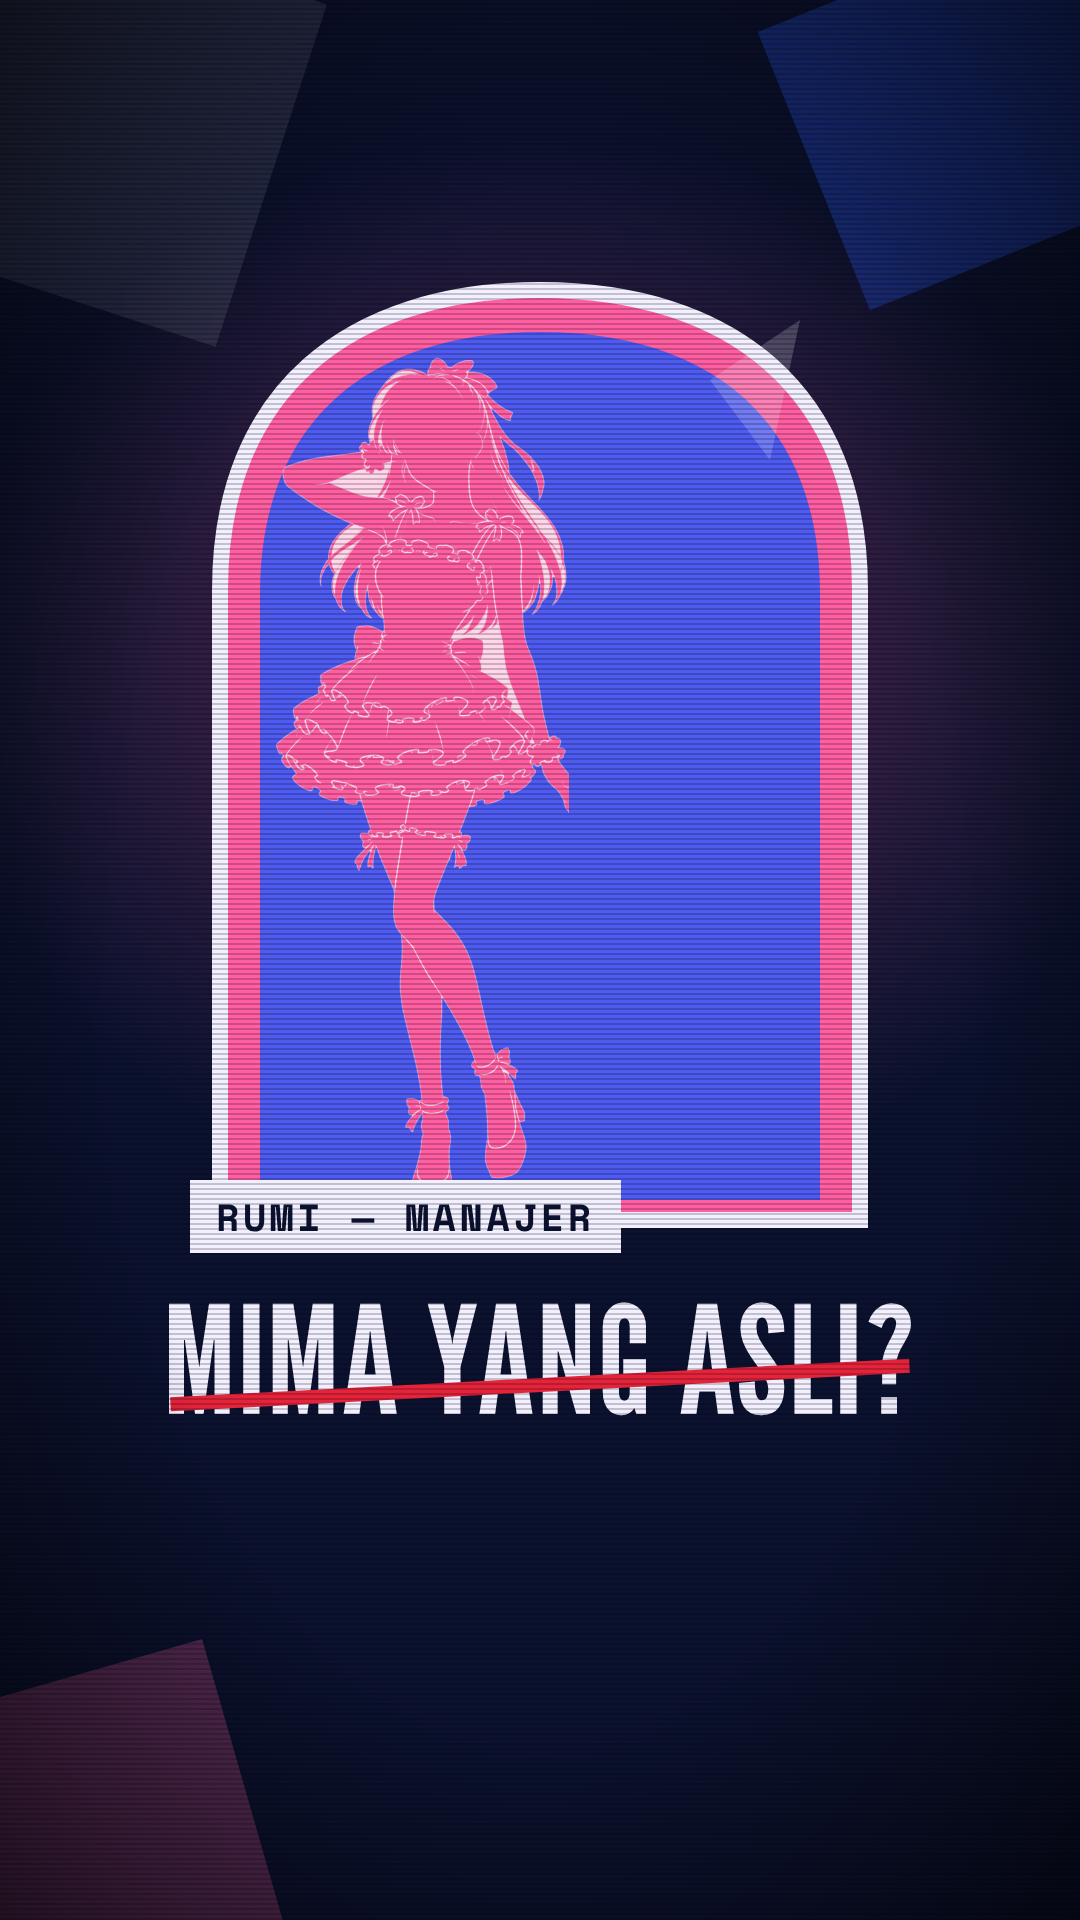
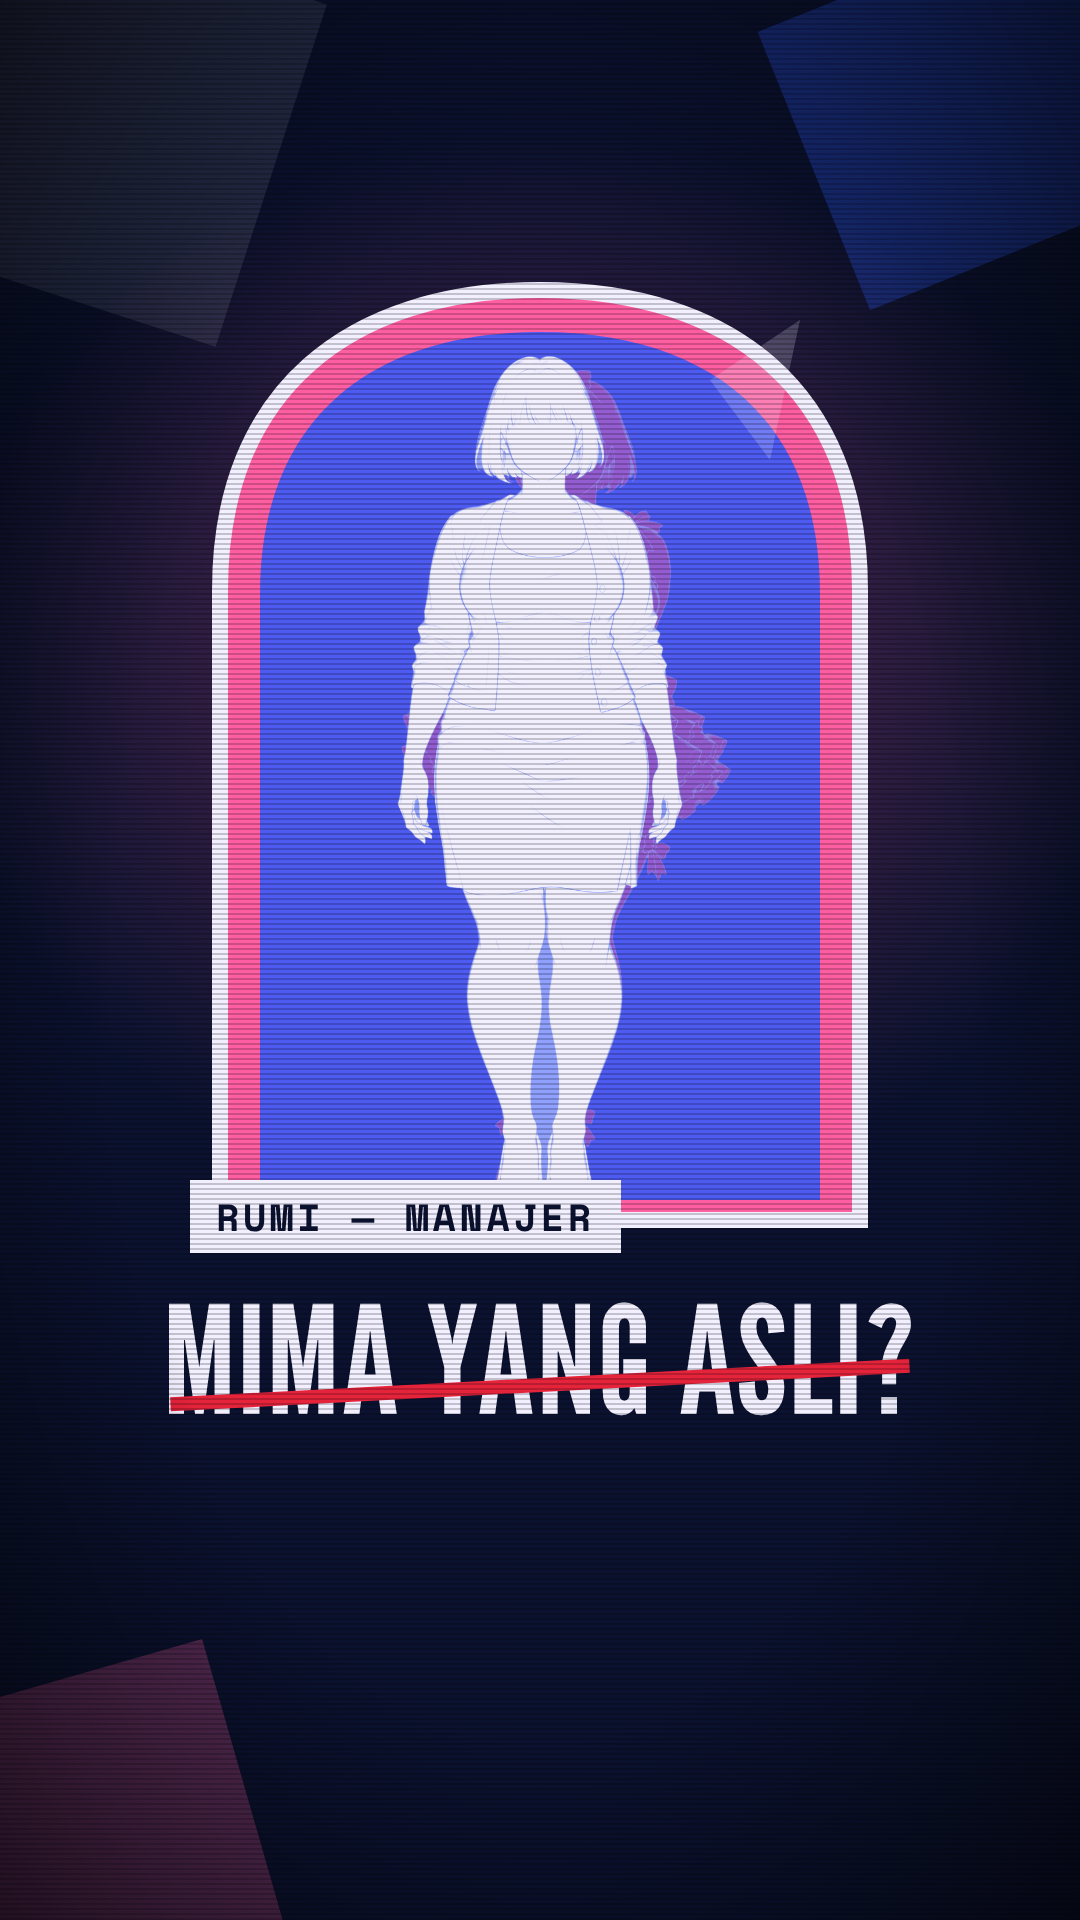
Perfect Blue: add Rumi silhouettes (manager + idol) to frame 7
Claude-Session: https://claude.ai/code/session_01AV2R8hqAjcwuZcRjF8toeJ

Changed region(s): [[0.2444, 0.1875, 0.6722, 0.625]]

diff --git a/videos/perfect-blue-60s/index.html b/videos/perfect-blue-60s/index.html
@@ -106,7 +106,8 @@ html,body{margin:0;background:#0b1230}
 <svg class="abs" style="left:190px;top:260px" width="700" height="980" viewBox="0 0 700 980">
  <path d="M30 960 V330 C30 130 160 30 350 30 C540 30 670 130 670 330 V960 Z" fill="#ff5fa2" stroke="#f2f0ff" stroke-width="16"/>
  <path d="M70 940 V334 C70 160 180 72 350 72 C520 72 630 160 630 334 V940 Z" fill="#2f5bff" opacity=".85"/>
- <image href="assets/figures/idol-long-pink.png" x="86" y="96" width="293" height="860"/>
+ <image href="assets/figures/rumi-idol-pink.png" x="56" y="110" width="640" height="850" opacity=".4" preserveAspectRatio="xMidYMax meet"/>
+ <image href="assets/figures/rumi-mgr-paper.png" x="40" y="96" width="620" height="864" preserveAspectRatio="xMidYMax meet"/>
  <path d="M520 120 L610 60 L580 200Z" fill="#f2f0ff" fill-opacity=".22"/>
 </svg>
 <div class="abs tag" style="left:190px;top:1180px;background:#f2f0ff;color:#0b1230;font-size:38px">RUMI — MANAJER</div>

diff --git a/videos/perfect-blue-60s/scripts/build_scenes.py b/videos/perfect-blue-60s/scripts/build_scenes.py
@@ -164,7 +164,8 @@ f6 = f'''
 mirror = f'''<svg class="abs" style="left:190px;top:260px" width="700" height="980" viewBox="0 0 700 980">
  <path d="M30 960 V330 C30 130 160 30 350 30 C540 30 670 130 670 330 V960 Z" fill="{PINK}" stroke="{PAPER}" stroke-width="16"/>
  <path d="M70 940 V334 C70 160 180 72 350 72 C520 72 630 160 630 334 V940 Z" fill="{BLUE}" opacity=".85"/>
- <image href="assets/figures/idol-long-pink.png" x="86" y="96" width="{int(860*484/1416)}" height="860"/>
+ <image href="assets/figures/rumi-idol-pink.png" x="56" y="110" width="640" height="850" opacity=".4" preserveAspectRatio="xMidYMax meet"/>
+ <image href="assets/figures/rumi-mgr-paper.png" x="40" y="96" width="620" height="864" preserveAspectRatio="xMidYMax meet"/>
  <path d="M520 120 L610 60 L580 200Z" fill="{PAPER}" fill-opacity=".22"/>
 </svg>'''
 f7 = f'''

diff --git a/videos/perfect-blue-60s/scripts/prep_figures.py b/videos/perfect-blue-60s/scripts/prep_figures.py
@@ -60,6 +60,12 @@ for nm, sl in (("idol-long", slice(0, cut)), ("idol-twin", slice(cut, w))):
     aa, ll = aa[y0:y1 + 1, x0:x1 + 1], ll[y0:y1 + 1, x0:x1 + 1]
     save(aa, ll, f"assets/figures/{nm}.png")
     for k in NEED[nm]: save(aa, ll, f"assets/figures/{nm}-{k}.png", *PAL[k])
+for name in ["rumi-mgr", "rumi-idol"]:
+    a, al = cutout(src + name + ".png")
+    ys, xs = np.where(al > 0.05); y0, y1, x0, x1 = ys.min(), ys.max(), xs.min(), xs.max()
+    aa, ll = a[y0:y1 + 1, x0:x1 + 1], al[y0:y1 + 1, x0:x1 + 1]
+    save(aa, ll, f"assets/figures/{name}.png")
+    for k in ("pink", "paper"): save(aa, ll, f"assets/figures/{name}-{k}.png", *({**PAL, "paper": ("#f2f0ff", "#8fa0ff")}[k]))
 for name in ["eye-blue", "eye-red", "mima-stand2"]:
     a, al = cutout(src + name + ".png")
     # rapikan: potong ke kotak isi
